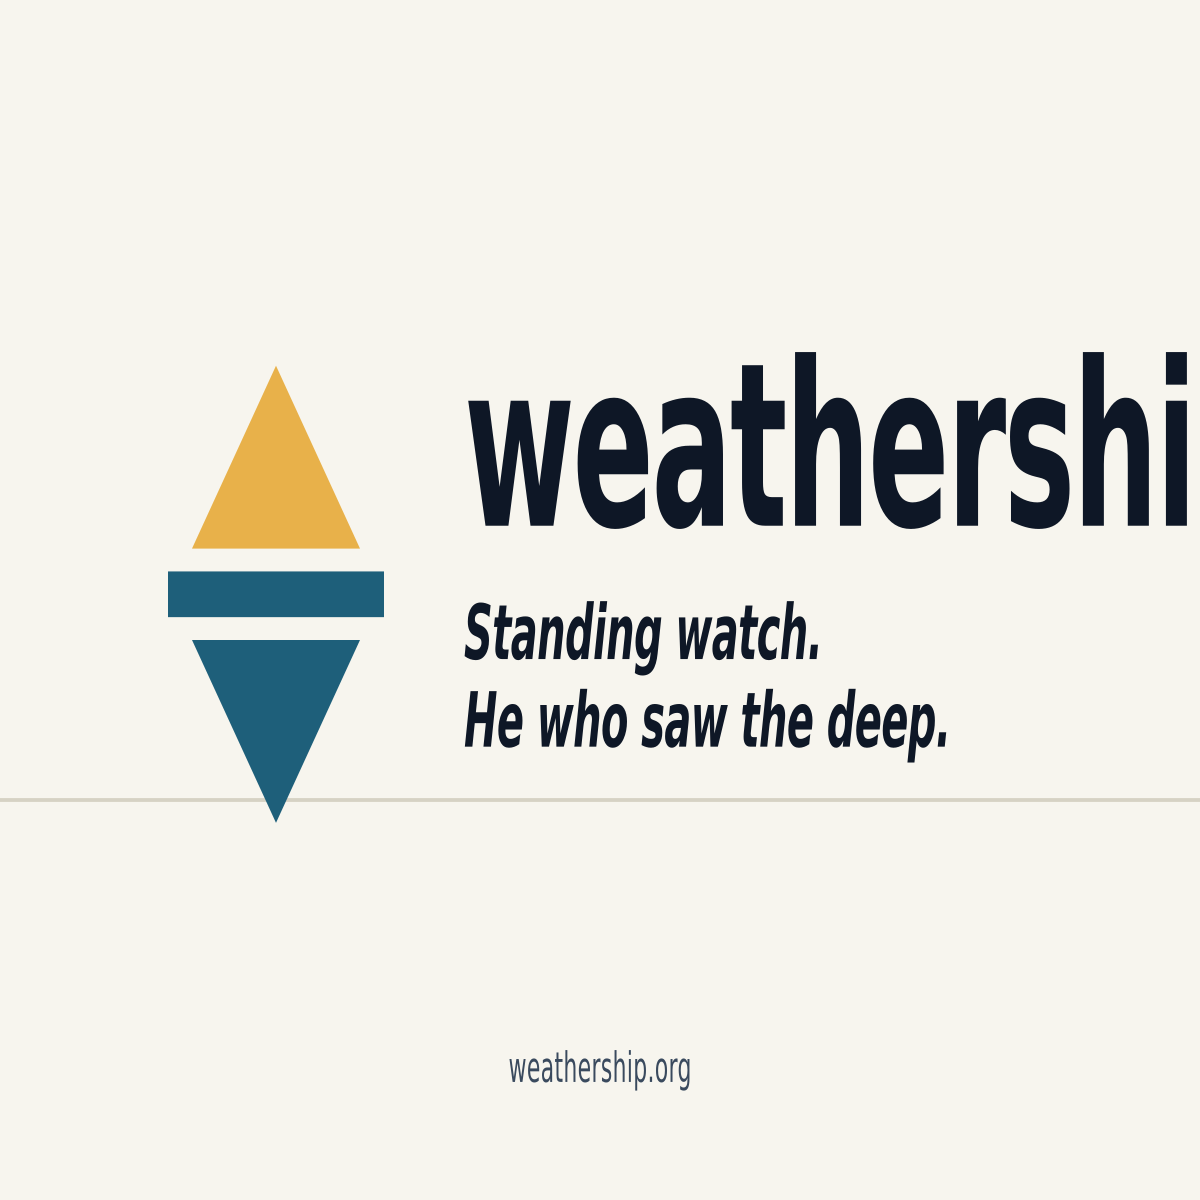
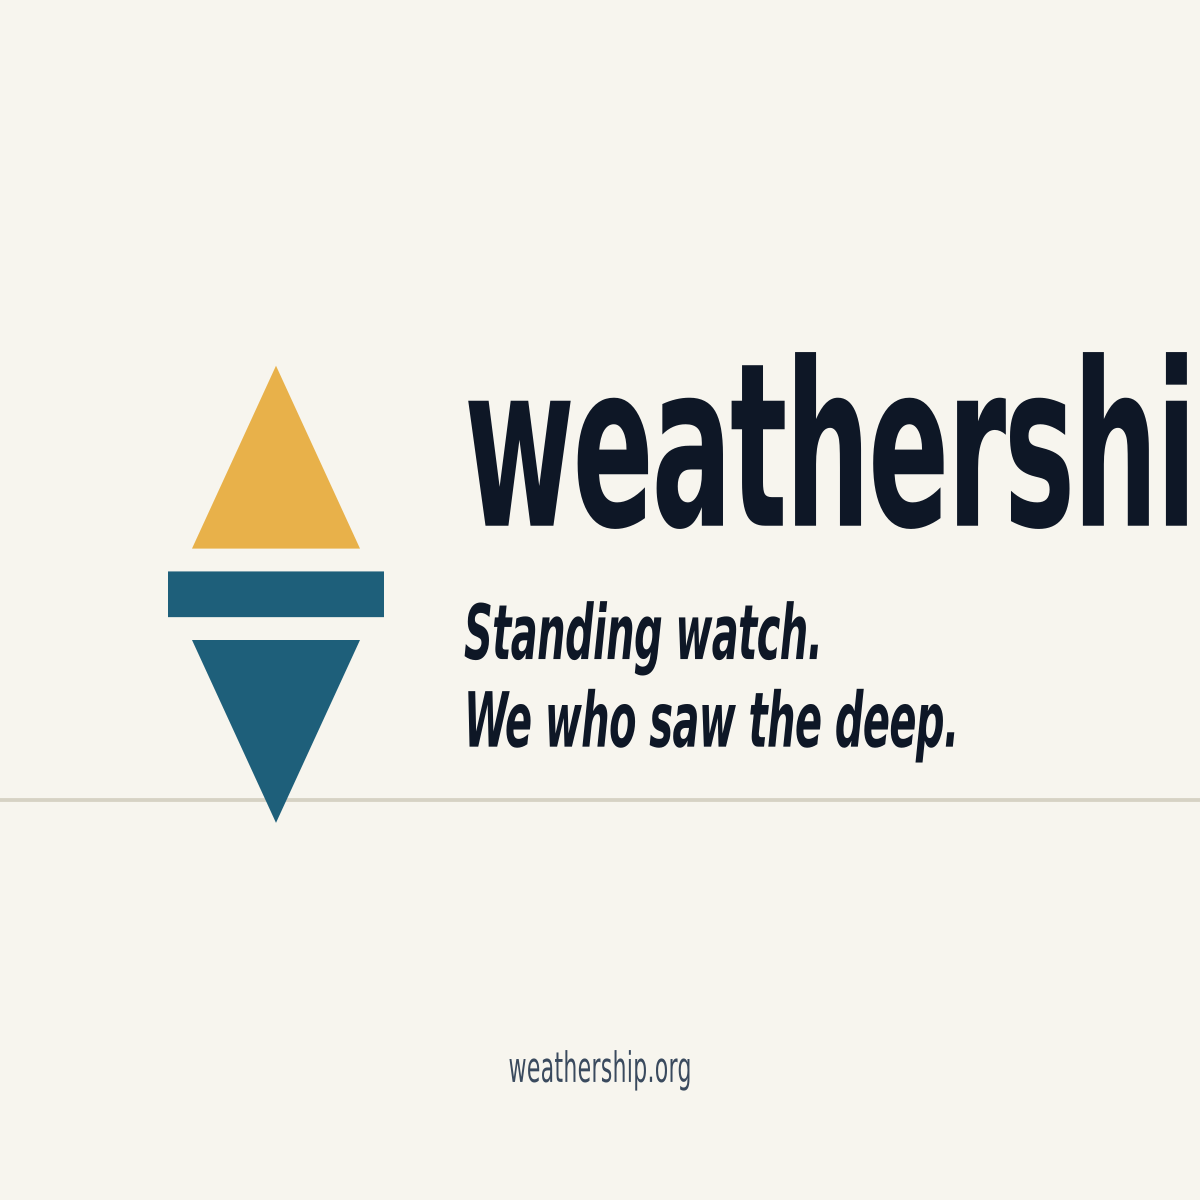
Switch tagline to plural: "Standing watch. We who saw the deep."
weathership is a collective — many people, many crossings, one watch —
so the canonical line uses the plural. The line still echoes Gilgamesh
as the literary source, and now also reads as "our name is legion, for
we are many," which fits an open-source crew.

Updated all canonical brand surfaces (hero, OG card, Twitter banner,
about, footer, news launch post, identity.md tagline section). PNGs
regenerated.

Also: justfile web-deploy now passes --env="" explicitly to silence
wrangler's ambiguity warning when multiple environments exist.

Changed region(s): [[0.37, 0.555, 0.8017, 0.6475]]

diff --git a/brand/identity.md b/brand/identity.md
@@ -15,18 +15,19 @@ station that keeps watch on the way there.
 
 ## Tagline
 
-> Standing watch. He who saw the deep.
+> Standing watch. We who saw the deep.
 
-The line is a deliberate echo of the opening of the Epic of Gilgamesh,
-which addresses its king as *"He who saw the Deep"* — the one who
-plunged into the abyss, read its conditions, and returned with
-hard-won truth. weathership stations itself in the data ocean for the
-same reason: to read what's actually out there, not what's comfortable.
+The line echoes the opening of the Epic of Gilgamesh, which addresses
+its king as *"He who saw the Deep"* — the one who plunged into the
+abyss, read its conditions, and returned with hard-won truth.
+weathership stations itself in the data ocean for the same reason:
+to read what's actually out there, not what's comfortable.
 
-Use the singular form (*"He who saw the deep."*) for brand surfaces.
-A collective form (*"We who saw the deep."*) is admissible for
-crew-voiced contexts (engineering posts, contributor channels) but the
-default canonical line is singular.
+We use the **plural** form. weathership is a collective — many people,
+many crossings, one watch — and the line carries an additional reading
+("our name is legion, for we are many") that fits an open-source crew.
+The singular *"He who saw the deep."* is the literary source we're
+honoring, not the form we use.
 
 ## Mission
 

diff --git a/web/src/data/news/hello-weathership.md b/web/src/data/news/hello-weathership.md
@@ -27,4 +27,4 @@ If you want to know what's coming next, the [projects page](/projects/)
 is the canonical list. If you want the mark, palette, and
 publication-ready assets, the [media kit](/media-kit/) has them.
 
-Standing watch. He who saw the deep.
+Standing watch. We who saw the deep.
